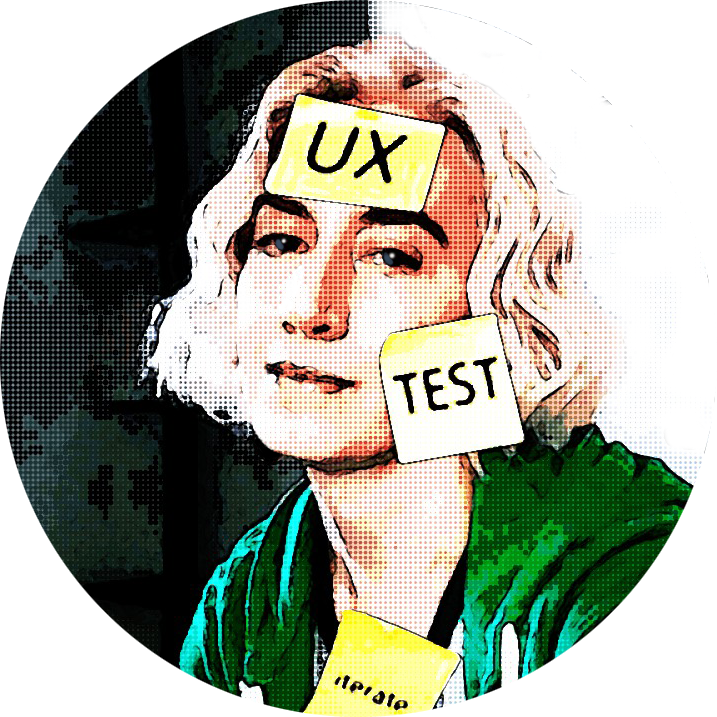
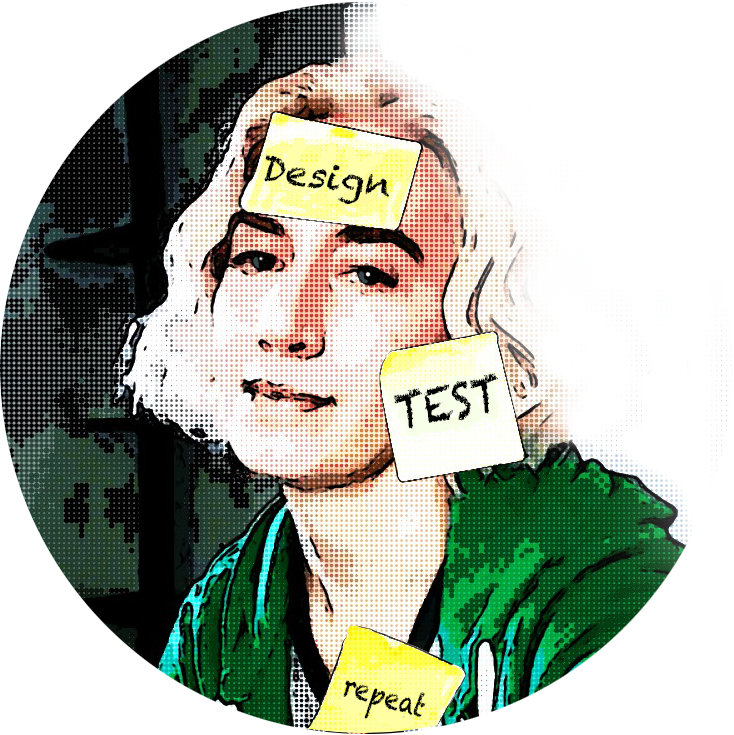
added award images and updated green to be accessible for buttons and text

diff --git a/nairo/src/assets/scss/main/_button.scss b/nairo/src/assets/scss/main/_button.scss
@@ -13,15 +13,15 @@
   letter-spacing: 0.3px;
   cursor: pointer !important;
   &.btn-outline {
-    border: 2px solid $px-theme;
+    border: 2px solid darken($px-theme, 10%);
     &:hover {
-      background: $px-theme;
+      background: darken($px-theme, 10%);
       color: #fff;
     }
   }
   &.px-btn-theme {
-    background: $px-theme;
-    border: 2px solid $px-theme;
+    background: darken($px-theme, 10%);
+    border: 2px solid darken($px-theme, 10%);
     color: #fff;
     &:hover {
       background: $px-white;
@@ -31,18 +31,18 @@
   &.px-btn-white {
     background: $px-white;
     border-color: $px-white;
-    color: $px-theme;
+    color: darken($px-theme, 10%);
     .theme-light & {
       color: $px-white;
-      background: $px-theme;
-      border-color: $px-theme;
+      background: darken($px-theme, 10%);
+      border-color: darken($px-theme, 10%);
     }
     &:hover {
       background: transparent;
       color: $px-white;
       transform: translateY(0px);
       .theme-light & {
-        color: $px-theme;
+        color: darken($px-theme, 10%);
       }
     }
   }

diff --git a/nairo/src/components/award/AwardsAnimation.jsx b/nairo/src/components/award/AwardsAnimation.jsx
@@ -2,21 +2,21 @@ import React from "react";
 
 const AwardContnet = [
   {
-    img: "a1",
-    awardName: "Creative Designer",
-    awardFor: "Site of the day",
+    img: "boomtown",
+    awardName: "Boomtown Accelerator",
+    awardFor: "Investment Recipient, 2016",
     delayAnimation: "0",
   },
   {
-    img: "a2",
-    awardName: "Yearly Best Performer",
-    awardFor: "Site of the day",
+    img: "wildsound",
+    awardName: "WILDsound Film Festival",
+    awardFor: "TV Screenplay Finalist, 2009",
     delayAnimation: "200",
   },
   {
-    img: "a3",
-    awardName: "Best Learner Award",
-    awardFor: "Site of the day",
+    img: "deadborn",
+    awardName: "Deadborn",
+    awardFor: "Terrible novel I wrote. If you really want to read it you can find it on Amazon.", 
     delayAnimation: "400",
   },
 ];

diff --git a/nairo/src/components/service/ServiceAnimation.jsx b/nairo/src/components/service/ServiceAnimation.jsx
@@ -4,14 +4,13 @@ const ServiceContent = [
   {
     icon: "icon-mobile",
     title: "Mockups & Prototypes",
-    descriptions: `sldfjsdlkf`,
+    descriptions: `Create wireframes, mockups and prototypes in figma, sketch, invision, and the adobe suit`,
     delayAnimation: "100",
   },
   {
     icon: "icon-magnifying-glass",
     title: "Research & Discovery",
-    descriptions: `Lorem ipsum dolor sit amet, consectetur adipisicing elit, sed do
-    eiusmod tempor incididunt ut labore et dolore magna aliqua.`,
+    descriptions: `Through a varity of tools like usertesting, interview, unmoderated tests, surveys, journeys and persona work I define, develop and delivery insights and opportunties.`,
     delayAnimation: "200",
   },
   {

diff --git a/nairo/src/assets/scss/main/_style.scss b/nairo/src/assets/scss/main/_style.scss
@@ -229,7 +229,7 @@
       text-transform: capitalize;
       margin-bottom: 15px;
       .theme-light & {
-        color: $px-theme;
+        color: darken($px-theme, 10%);
         line-height: 1.2;
       }
       @include down-sm {
@@ -624,7 +624,7 @@
       padding: 5px 10px;
       border-radius: 3px;
       color: $px-white;
-      background: $px-theme;
+      background: $px-dark;
       font-size: 12px;
       font-weight: 500;
     }

diff --git a/nairo/src/assets/scss/main/_variable.scss b/nairo/src/assets/scss/main/_variable.scss
@@ -2,7 +2,7 @@
 
 @import url("https://fonts.googleapis.com/css2?family=Playfair+Display:ital,wght@0,400;0,500;0,600;0,700;0,800;0,900;1,400;1,500;1,600;1,700;1,800;1,900&display=swap");
 
-$px-theme: #00743a !default;
+$px-theme: #008533 !default;
 $px-splash: #fbff00 !default;
 $px-alt-splash: #ff9100 !default;
 $px-dark: #0b0b13 !default;

diff --git a/nairo/src/assets/scss/main/_portfolio.scss b/nairo/src/assets/scss/main/_portfolio.scss
@@ -164,7 +164,7 @@
       height: 100%;
       top: 0;
       left: 0;
-      background: darken($px-splash, 15%);
+      background: rgba($px-dark, 0.5);
       pointer-events: none;
       opacity: 0;
       visibility: hidden;

diff --git a/nairo/src/components/about/AboutAnimation.jsx b/nairo/src/components/about/AboutAnimation.jsx
@@ -121,7 +121,7 @@ const About = () => {
           {/* End separated */}
 
           <div className="title">
-            <h3>Awards.</h3>
+            <h3>Achievements.</h3>
           </div>
 
           <Awards />

diff --git a/nairo/src/assets/scss/main/_custom-theme-dark.scss b/nairo/src/assets/scss/main/_custom-theme-dark.scss
@@ -63,7 +63,7 @@
         color: rgba(255, 255, 255, 0.8);
       }
       .lead {
-        color: $px-theme;
+        color: darken($px-theme, 10%);
       }
       h6 {
         color: #c8c8cb;
